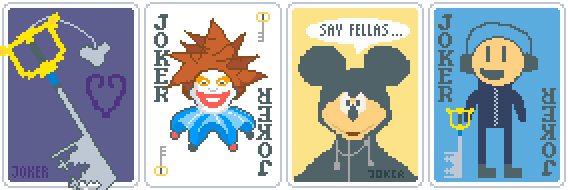
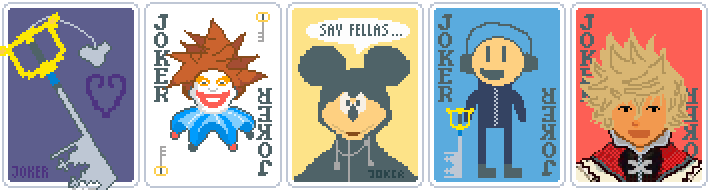
Add files via upload
add new joker and update website

diff --git a/index.html b/index.html
@@ -95,6 +95,7 @@
 				<img src="assets/originals/Keyblade.png" />
 				<img src="assets/originals/MeeskaMooska.png" />
 				<img src="assets/originals/Retrolas.png" />
+				<img src="assets/originals/Roxas.png" />
 			</div>
 		</main>
 	</body>
